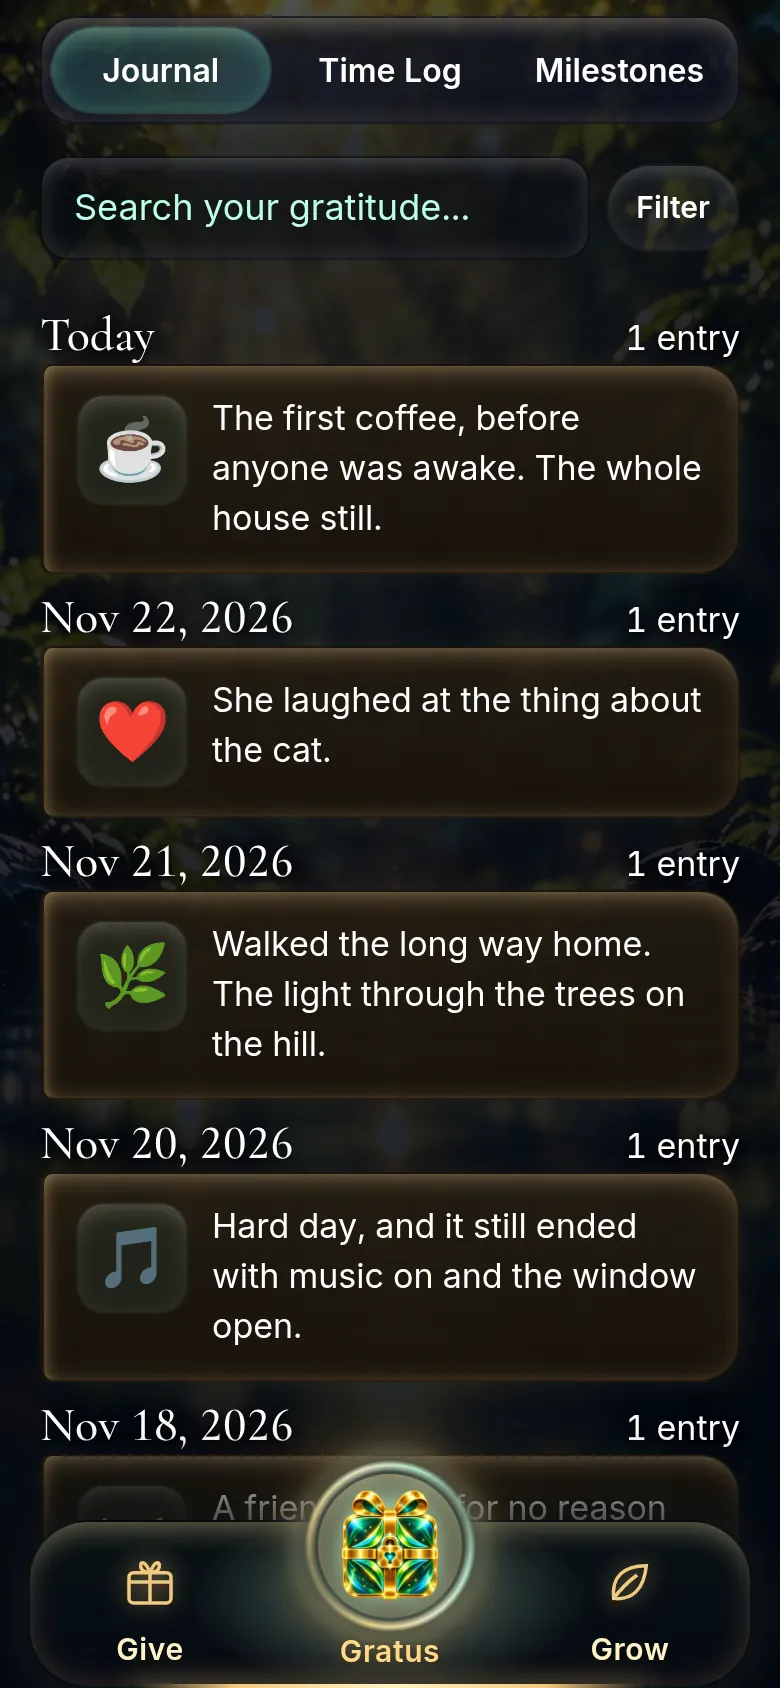
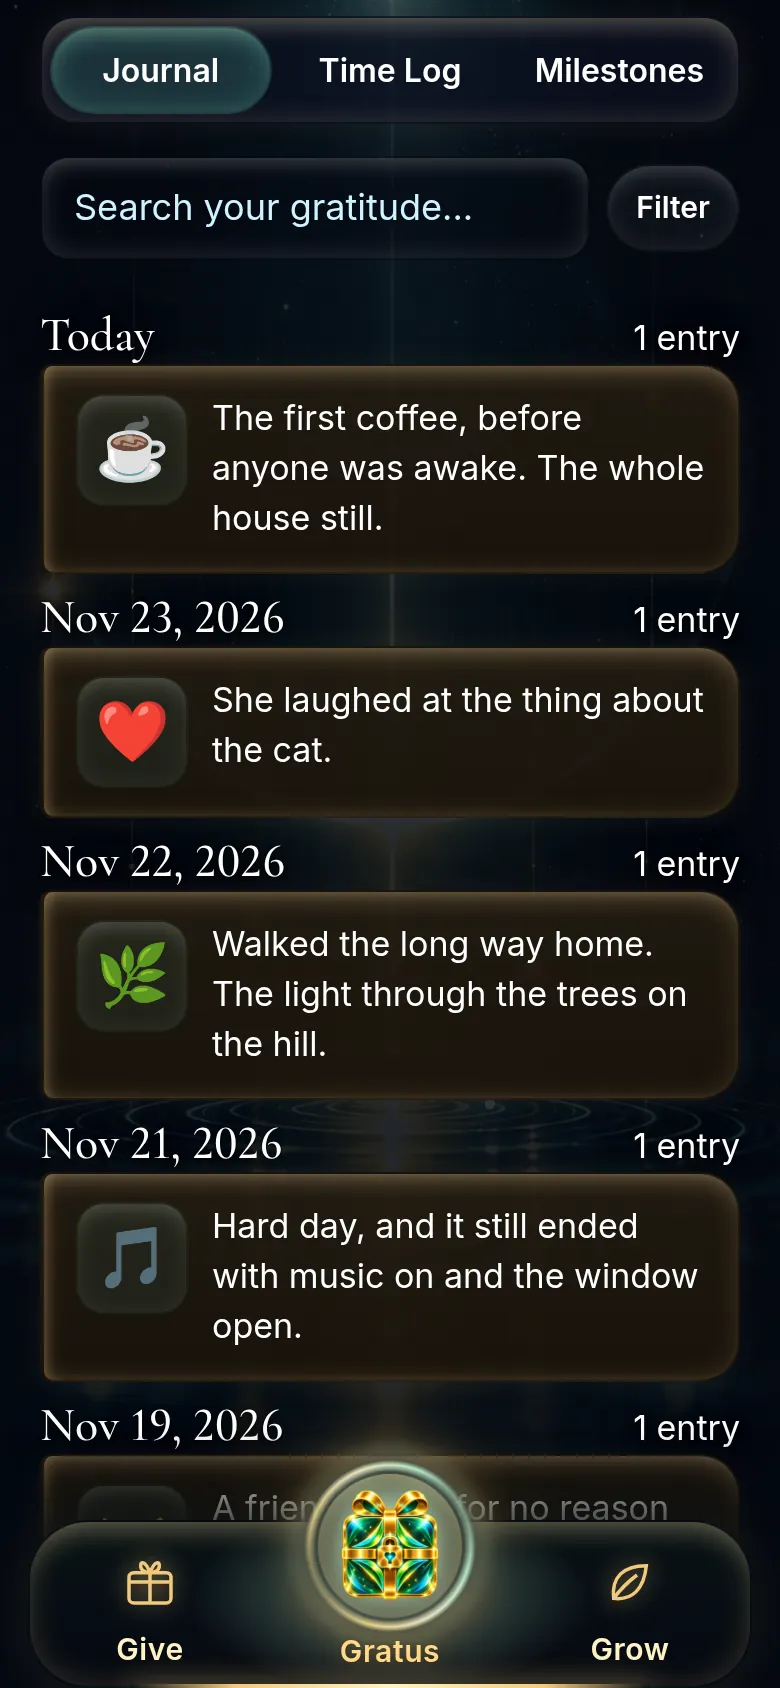
v57: the front page shows the night
The front page's three photographs of the app are retaken at night, the world of his mockups, from
the app as it is now. The three together are 84 KB lighter. The docs say how scenes are chosen and
what the accent colour is since v56.

diff --git a/sw.js b/sw.js
@@ -1,6 +1,6 @@
 // Offline-first shell. Everything lives on the device for now.
-const V = 'gratus-1795507092';
-const SHELL = ['/app.html', '/assets/css/tokens.css?v=38', '/assets/css/galaxy.css?v=44', '/assets/css/grain.svg', '/assets/js/galaxy.js?v=1795507092', '/assets/js/ui.js?v=14', '/assets/js/views.js?v=18', '/assets/js/tour.js?v=20', '/assets/js/trax.js?v=19', '/assets/js/account.js?v=20', '/assets/js/billing.js?v=21', '/assets/js/keep.js?v=13', '/assets/js/giftmark.js?v=42', '/assets/js/motus.js?v=41', '/assets/js/films.js?v=44', '/assets/js/record.js?v=1',
+const V = 'gratus-1795510016';
+const SHELL = ['/app.html', '/assets/css/tokens.css?v=38', '/assets/css/galaxy.css?v=44', '/assets/css/grain.svg', '/assets/js/galaxy.js?v=1795510016', '/assets/js/ui.js?v=14', '/assets/js/views.js?v=18', '/assets/js/tour.js?v=20', '/assets/js/trax.js?v=19', '/assets/js/account.js?v=20', '/assets/js/billing.js?v=21', '/assets/js/keep.js?v=13', '/assets/js/giftmark.js?v=42', '/assets/js/motus.js?v=41', '/assets/js/films.js?v=44', '/assets/js/record.js?v=1',
   '/engine/gratus.js?v=12', '/engine/emoji.js?v=12', '/engine/rng.js?v=12', '/engine/state.js?v=14', '/engine/journal.js?v=1',
   '/config/evolutions.json?v=22', '/config/emoji-names.json?v=22', '/config/prompts.json?v=22', '/config/copy.json?v=22', '/config/growth-book.json?v=22', '/config/recipes.json?v=22', '/config/alchemy.json?v=22', '/config/families.json?v=22', '/config/partners.json?v=22',
   '/assets/art/gfx/logo.webp', '/assets/art/gfx/g11.webp', '/assets/art/gfx/g08.webp', '/assets/art/gfx/g13.webp', '/assets/art/gfx/g15.webp', '/assets/art/gfx/g20.webp', '/assets/art/gfx/g22.webp', '/assets/art/gfx/g27.webp', '/assets/art/gfx/v3-poster.webp',

diff --git a/app.html b/app.html
@@ -41,6 +41,6 @@
 <div id="tour" role="dialog" aria-modal="true" aria-label="A first walk through Gratus" hidden></div>
 <div id="toast" role="status" aria-live="polite"></div>
 <noscript><div class="noscript"><h2>Gratus.CC</h2><p class="lead">Gratus needs JavaScript. The page at <a href="/">gratus.cc</a> reads without it.</p></div></noscript>
-<script type="module" src="/assets/js/galaxy.js?v=1795507092"></script>
+<script type="module" src="/assets/js/galaxy.js?v=1795510016"></script>
 </body>
 </html>

diff --git a/gift.html b/gift.html
@@ -43,6 +43,6 @@
 <div id="tour" role="dialog" aria-modal="true" aria-label="A first walk through Gratus" hidden></div>
 <div id="toast" role="status" aria-live="polite"></div>
 <noscript><div class="noscript"><h2>Gratus.CC</h2><p class="lead">Gratus needs JavaScript. The page at <a href="/">gratus.cc</a> reads without it.</p></div></noscript>
-<script type="module" src="/assets/js/galaxy.js?v=1795507092"></script>
+<script type="module" src="/assets/js/galaxy.js?v=1795510016"></script>
 </body>
 </html>

diff --git a/guided.html b/guided.html
@@ -76,6 +76,6 @@
 <div id="tour" role="dialog" aria-modal="true" aria-label="A first walk through Gratus" hidden></div>
 <div id="toast" role="status" aria-live="polite"></div>
 <noscript><div class="noscript"><h2>Gratus.CC</h2><p class="lead">Gratus needs JavaScript. The page at <a href="/">gratus.cc</a> reads without it.</p></div></noscript>
-<script type="module" src="/assets/js/galaxy.js?v=1795507092"></script>
+<script type="module" src="/assets/js/galaxy.js?v=1795510016"></script>
 </body>
 </html>

diff --git a/p.html b/p.html
@@ -43,6 +43,6 @@
 <div id="tour" role="dialog" aria-modal="true" aria-label="A first walk through Gratus" hidden></div>
 <div id="toast" role="status" aria-live="polite"></div>
 <noscript><div class="noscript"><h2>Gratus.CC</h2><p class="lead">Gratus needs JavaScript. The page at <a href="/">gratus.cc</a> reads without it.</p></div></noscript>
-<script type="module" src="/assets/js/galaxy.js?v=1795507092"></script>
+<script type="module" src="/assets/js/galaxy.js?v=1795510016"></script>
 </body>
 </html>

diff --git a/passage.html b/passage.html
@@ -43,6 +43,6 @@
 <div id="tour" role="dialog" aria-modal="true" aria-label="A first walk through Gratus" hidden></div>
 <div id="toast" role="status" aria-live="polite"></div>
 <noscript><div class="noscript"><h2>Gratus.CC</h2><p class="lead">Gratus needs JavaScript. The page at <a href="/">gratus.cc</a> reads without it.</p></div></noscript>
-<script type="module" src="/assets/js/galaxy.js?v=1795507092"></script>
+<script type="module" src="/assets/js/galaxy.js?v=1795510016"></script>
 </body>
 </html>

diff --git a/docs/ARCHITECTURE.md b/docs/ARCHITECTURE.md
@@ -40,7 +40,7 @@ G47 walks all of it with the phone’s own back and forward, and counts any step
 
 ## Scenes per page
 
-`SCENES` maps each page to a list of scene names. `scene(key, i)` picks one by the number of opens, so the app changes every time it is opened and still feels the same. Home leads with the long zoom of the Gate; every list leads with a video.
+Each page has a list of scene names, and `scene(key, i)` picks one by the number of opens, so the app changes every time it is opened and still feels the same. `SCENES` holds the lists from before v56; they are used only for a page a world leaves out.
 
 Since v56 the lists come from the world the clock is in. `LOOKS` (plain JSON between `/*looks*/` and `/*end looks*/`, so G52 can read it) holds three worlds, `night`, `golden` and `day`, each with a list for every page. `lookAt(hour)` gives night from 20:00 to 04:59, golden from 05:00 to 08:59 and from 17:00 to 19:59, and day between. `look()` takes `?look=night|golden|day` first and keeps it for the visit (session storage), because the app's own steps drop the query; an automated browser (`navigator.webdriver`) sees day unless the address says `?look=auto`, so the gates are the same at any hour. `sceneList(key)` falls back to `SCENES` for a page a world leaves out, and `wire()` writes the world to `<html data-look>` on every paint. Each scene layer carries `data-scene` with the painting's name.
 
@@ -145,7 +145,7 @@ At 1024px and wider the scene layer has two children: `.back`, the poster of the
 
 ## Type and colour
 
-Tokens live in `tokens.css`. Every ink is white and solid; mint (`#B9FFE4`) is for growing and labels, gold (`#FFD98A`) for giving. Body type is 18 on 28 and nothing is set under 14px. A kicker whose text ends a sentence is tagged `.say` at render (a MutationObserver watches the body) and reads in sentence case at 17px; kickers that are labels keep small caps. Fields, segments and buttons stand on dark glass so they read on any scene.
+Tokens live in `tokens.css`. Every ink is white and solid. The accent for growing and labels (`--violet-text`) is mint (`#B9FFE4`) by day, ice (`#CFF3FF`) at night and pearl (`#FFEFD6`) at the golden hours, set by the world; gold (`#FFD98A`) is for giving in all three. Body type is 18 on 28 and nothing is set under 14px. A kicker whose text ends a sentence is tagged `.say` at render (a MutationObserver watches the body) and reads in sentence case at 17px; kickers that are labels keep small caps. Fields, segments and buttons stand on dark glass so they read on any scene.
 
 ## Edges and touch
 

diff --git a/docs/EVOLUTIONS.md b/docs/EVOLUTIONS.md
@@ -2,6 +2,10 @@
 
 Every version of Gratus.CC, what changed and why. The full working record is in [DECISIONS.md](../DECISIONS.md), [BUILD-NOTES.md](../BUILD-NOTES.md) and [LESSONS.md](../LESSONS.md).
 
+## v57 · The front page shows the night (2026-11-24)
+
+- **The front page's photographs are of the app as it is now.** Its three photographs of the app (the writing screen, the journal and the garden) were taken before v56, in the green of the old look. They are retaken at night, the world of his mockups: the writing screen under an arc of light, the journal's pages over the night, and the garden's five plants on their island under a crescent moon. They are lighter too: 277 KB together before, 193 KB now.
+
 ## v56 · The light of your day (2026-11-24)
 
 - **The world follows the light of your day.** Every room used to put a different painting behind itself on each open (glades, golden arches, waterfalls, galaxies), with no thread between them, and August said "it still all looks kinda ai generated". Three worlds follow the phone's own clock now. Night, from 8 pm to 5 am, is the world of his mockups: a night sky, the Earth, one thing lit. Golden is the first and last light: the arches, the ring of the sun, the rivers of light, the moon over the clouds. Day is the gardens. Each room keeps its symbol in each world (the island and its sprout on Grow, the heart on Give, the galaxy in the Galaxy), and within a world the scenes still turn with each open.

diff --git a/docs/GUIDES.md b/docs/GUIDES.md
@@ -91,7 +91,7 @@ Run the tests after any change to the configs.
 
 ### Type and colour
 
-`assets/css/tokens.css` holds every token. Inks are white; mint is for growing and labels; gold for giving. Add new text with the existing roles (`.lead`, `.body`, `.cap`, `.kicker`, `.label`, `.statement`). A kicker whose text ends with a full stop reads as a sentence automatically. Never set text in alpha and never under 14px; the contrast gate and the readability audit will catch it.
+`assets/css/tokens.css` holds every token. Inks are white; the accent for growing and labels is mint by day, ice at night and pearl at the golden hours; gold is for giving. Add new text with the existing roles (`.lead`, `.body`, `.cap`, `.kicker`, `.label`, `.statement`). A kicker whose text ends with a full stop reads as a sentence automatically. Never set text in alpha and never under 14px; the contrast gate and the readability audit will catch it.
 
 ### Gates
 
